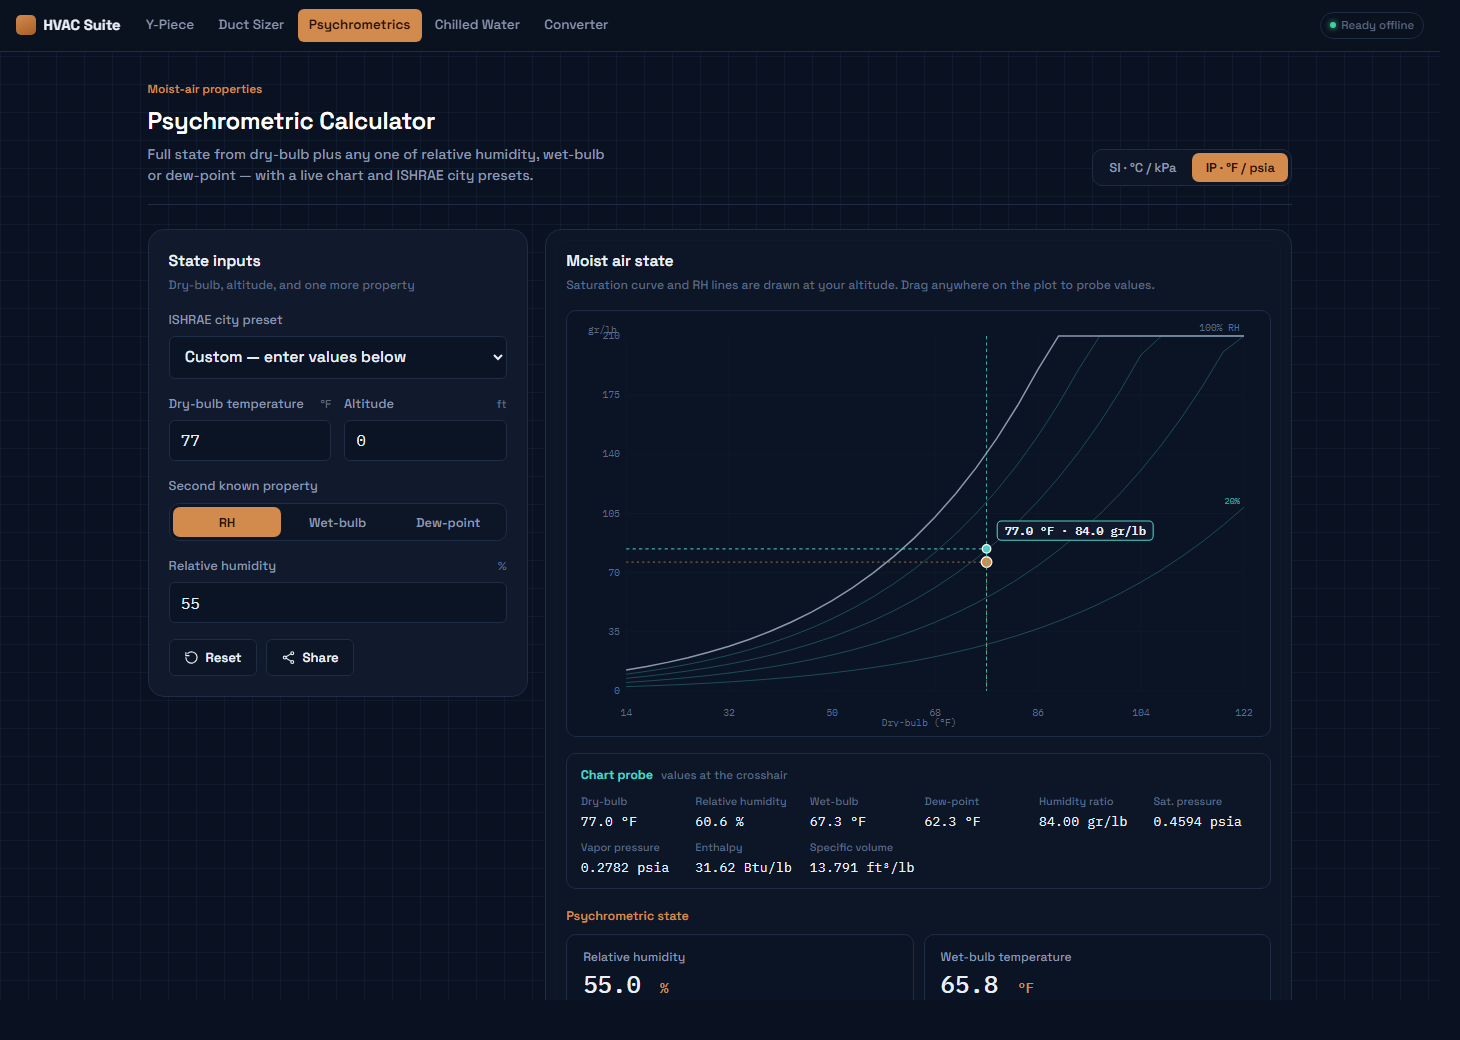
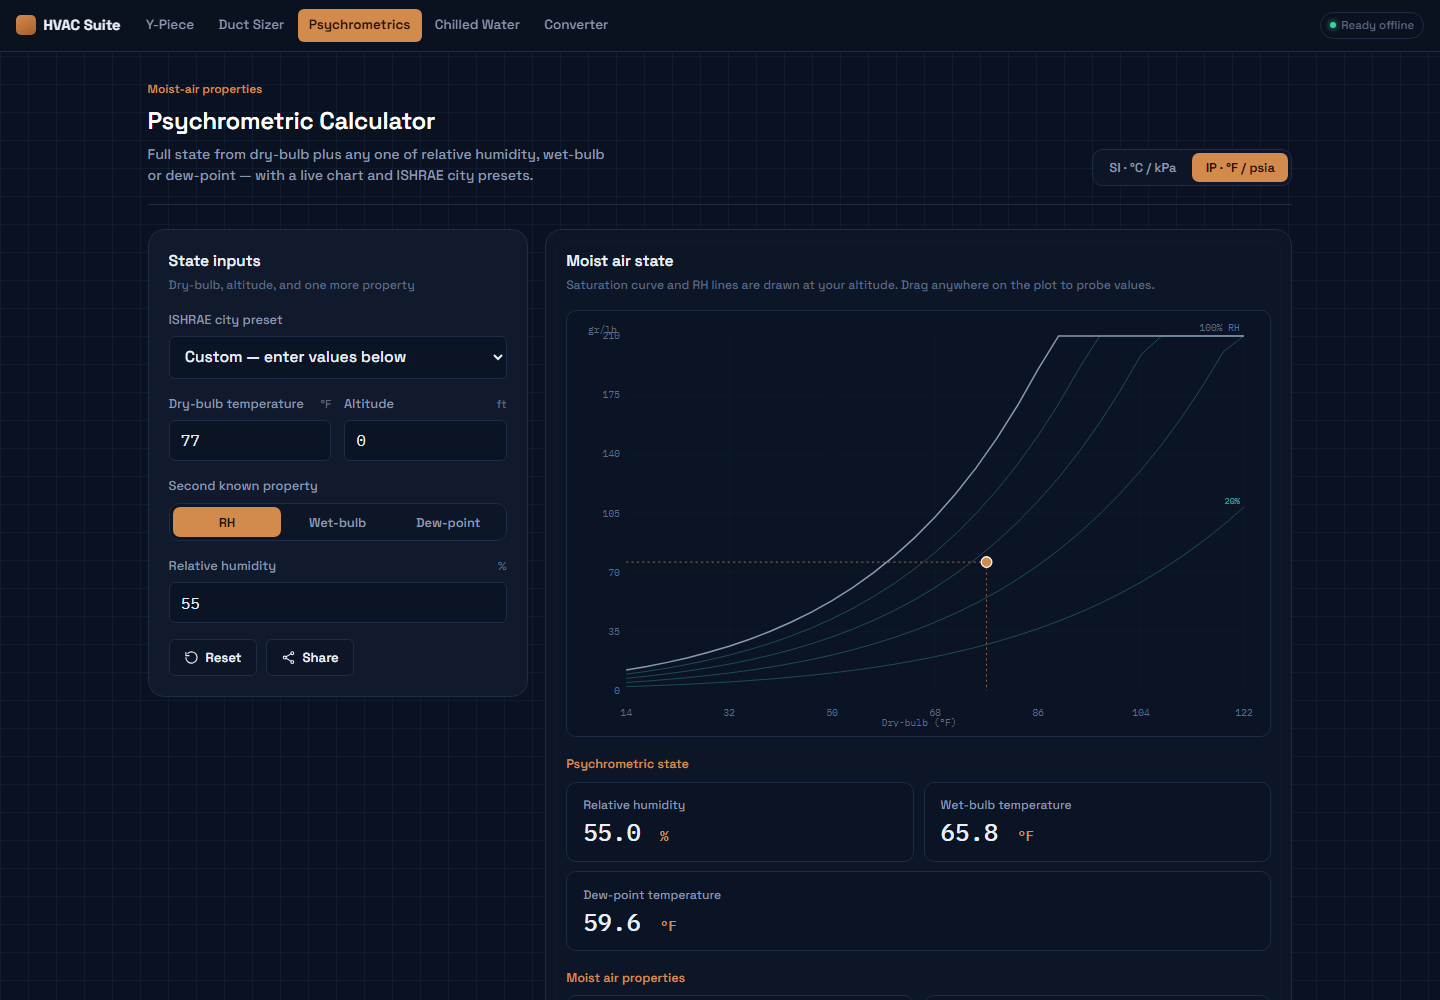
y-piece: round converted inputs to significant figures
Found by a full function-by-function test pass. The 6-decimal-place
rounding that was added to stop IP->SI->IP drift also made the input
fields show conversion noise: 2000 CFM became '943.885979 L/s'.

Now rounds to 6 significant figures instead, which keeps the drift
protection (that is why the change was needed) while displaying 943.886.
Values below 1 still get six decimals, and exact integers stay clean.

Also refreshed the dashboard, psychrometrics and mobile duct screenshots.

Test pass covering every tool, all against hand calculations:
  converter     41 checks - 8 categories, bidirectional, temperature
                 affine, per-category persistence
  y-piece       44 checks - 6 inputs, ANS + dual unit, 3 velocities,
                 schematic, all 4 warnings, reset, persistence
  chilled water 32 checks - both flow standards, both friction bases,
                 max velocity, 13-row schedule, size lock, warnings
  duct sizer    57 checks - both methods, both constraints, standard and
                 benchmark tables, oval, plenum, fabricate lines, and
                 the lock-while-toggling-units regression
  psychrometrics 66 checks - both unit systems, RH/WB/DP interlock, all
                 6 city presets, altitude, all properties, chart probe
  cross-cutting 63 checks - every page loads, share links round-trip
                 (including the locked duct size), persistence, both
                 clipboard paths, SW registration, meta/a11y
[…]

diff --git a/y-piece/index.html b/y-piece/index.html
@@ -231,7 +231,15 @@
     compute();
   }
 
-  function round2(v) { return Math.round(v * 1e6) / 1e6; }
+  // Rounds to 6 significant figures rather than 6 decimal places. Fixed
+  // decimals are needed so an IP->SI->IP round trip does not drift, but they
+  // make the field show noise like 943.885979 L/s instead of 943.886.
+  function round2(v) {
+    if (!isFinite(v) || v === 0) return v;
+    const dp = 6 - Math.floor(Math.log10(Math.abs(v))) - 1;
+    const m = Math.pow(10, Math.max(0, dp));
+    return Math.round(v * m) / m;
+  }
 
   function loadDefaults() {
     unit = DEFAULTS.unit;

diff --git a/sw.js b/sw.js
@@ -6,7 +6,7 @@
  * cache thereafter; if the very first visit was offline, the page still
  * renders with its fallback font stack.
  */
-const CACHE_VERSION = 'hvac-suite-v7';
+const CACHE_VERSION = 'hvac-suite-v8';
 const PRECACHE_URLS = [
   './',
   './index.html',
